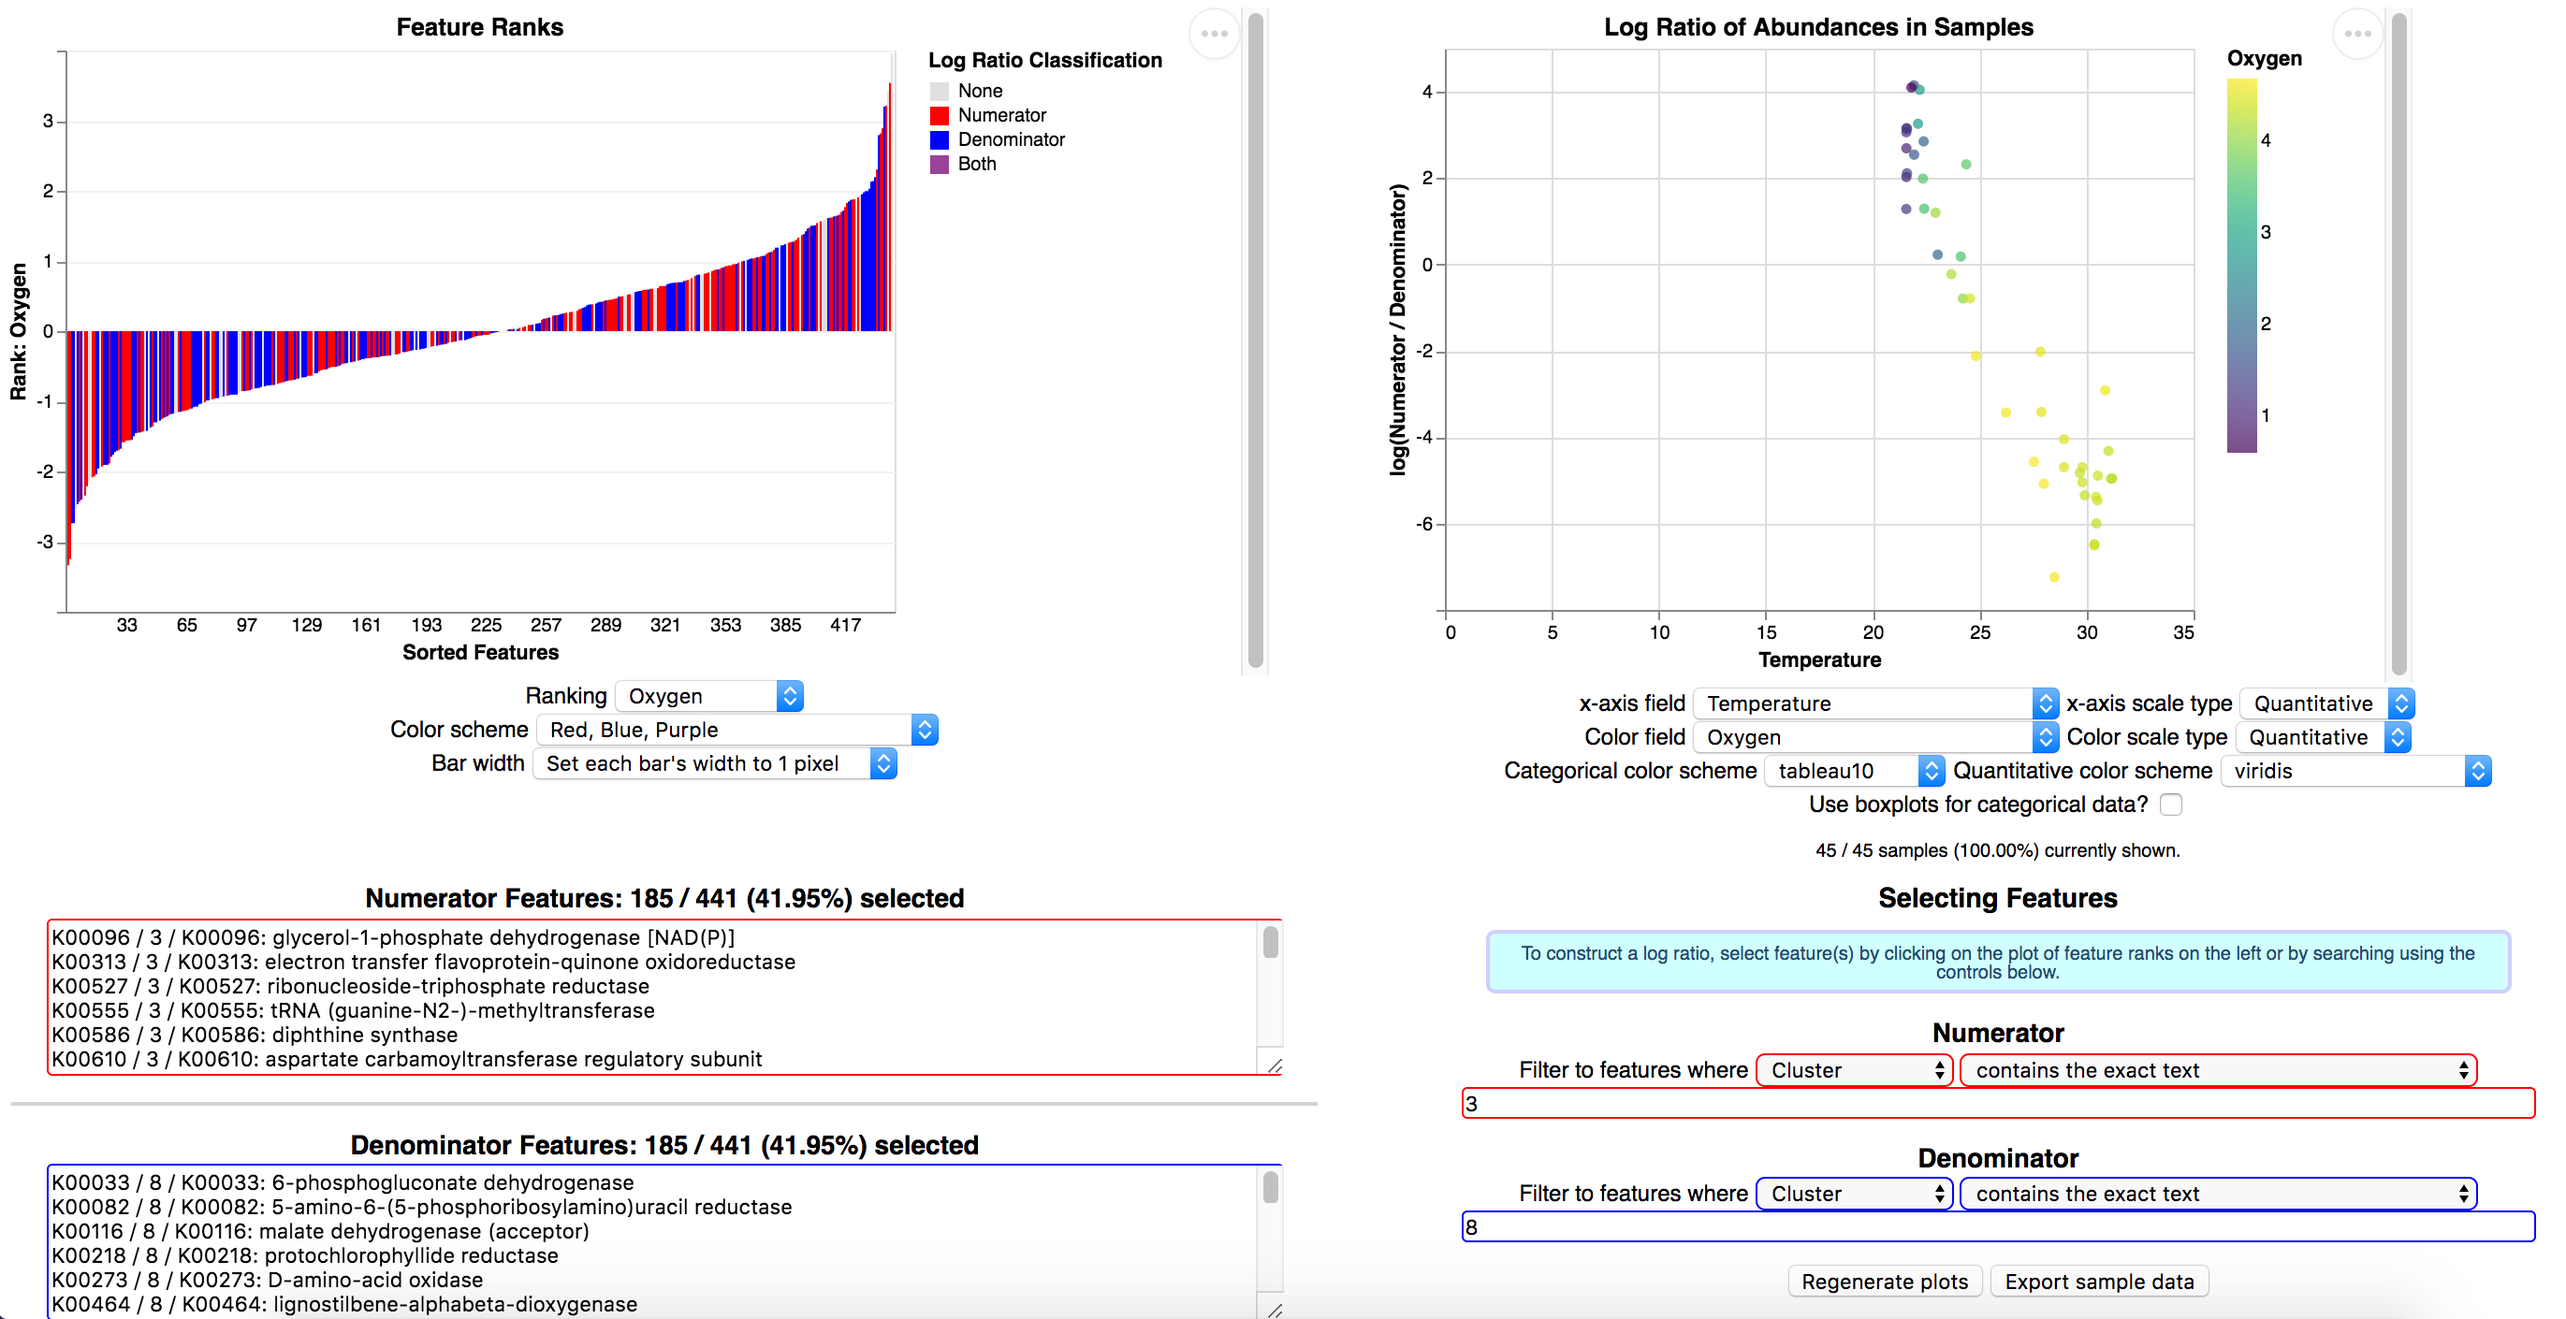
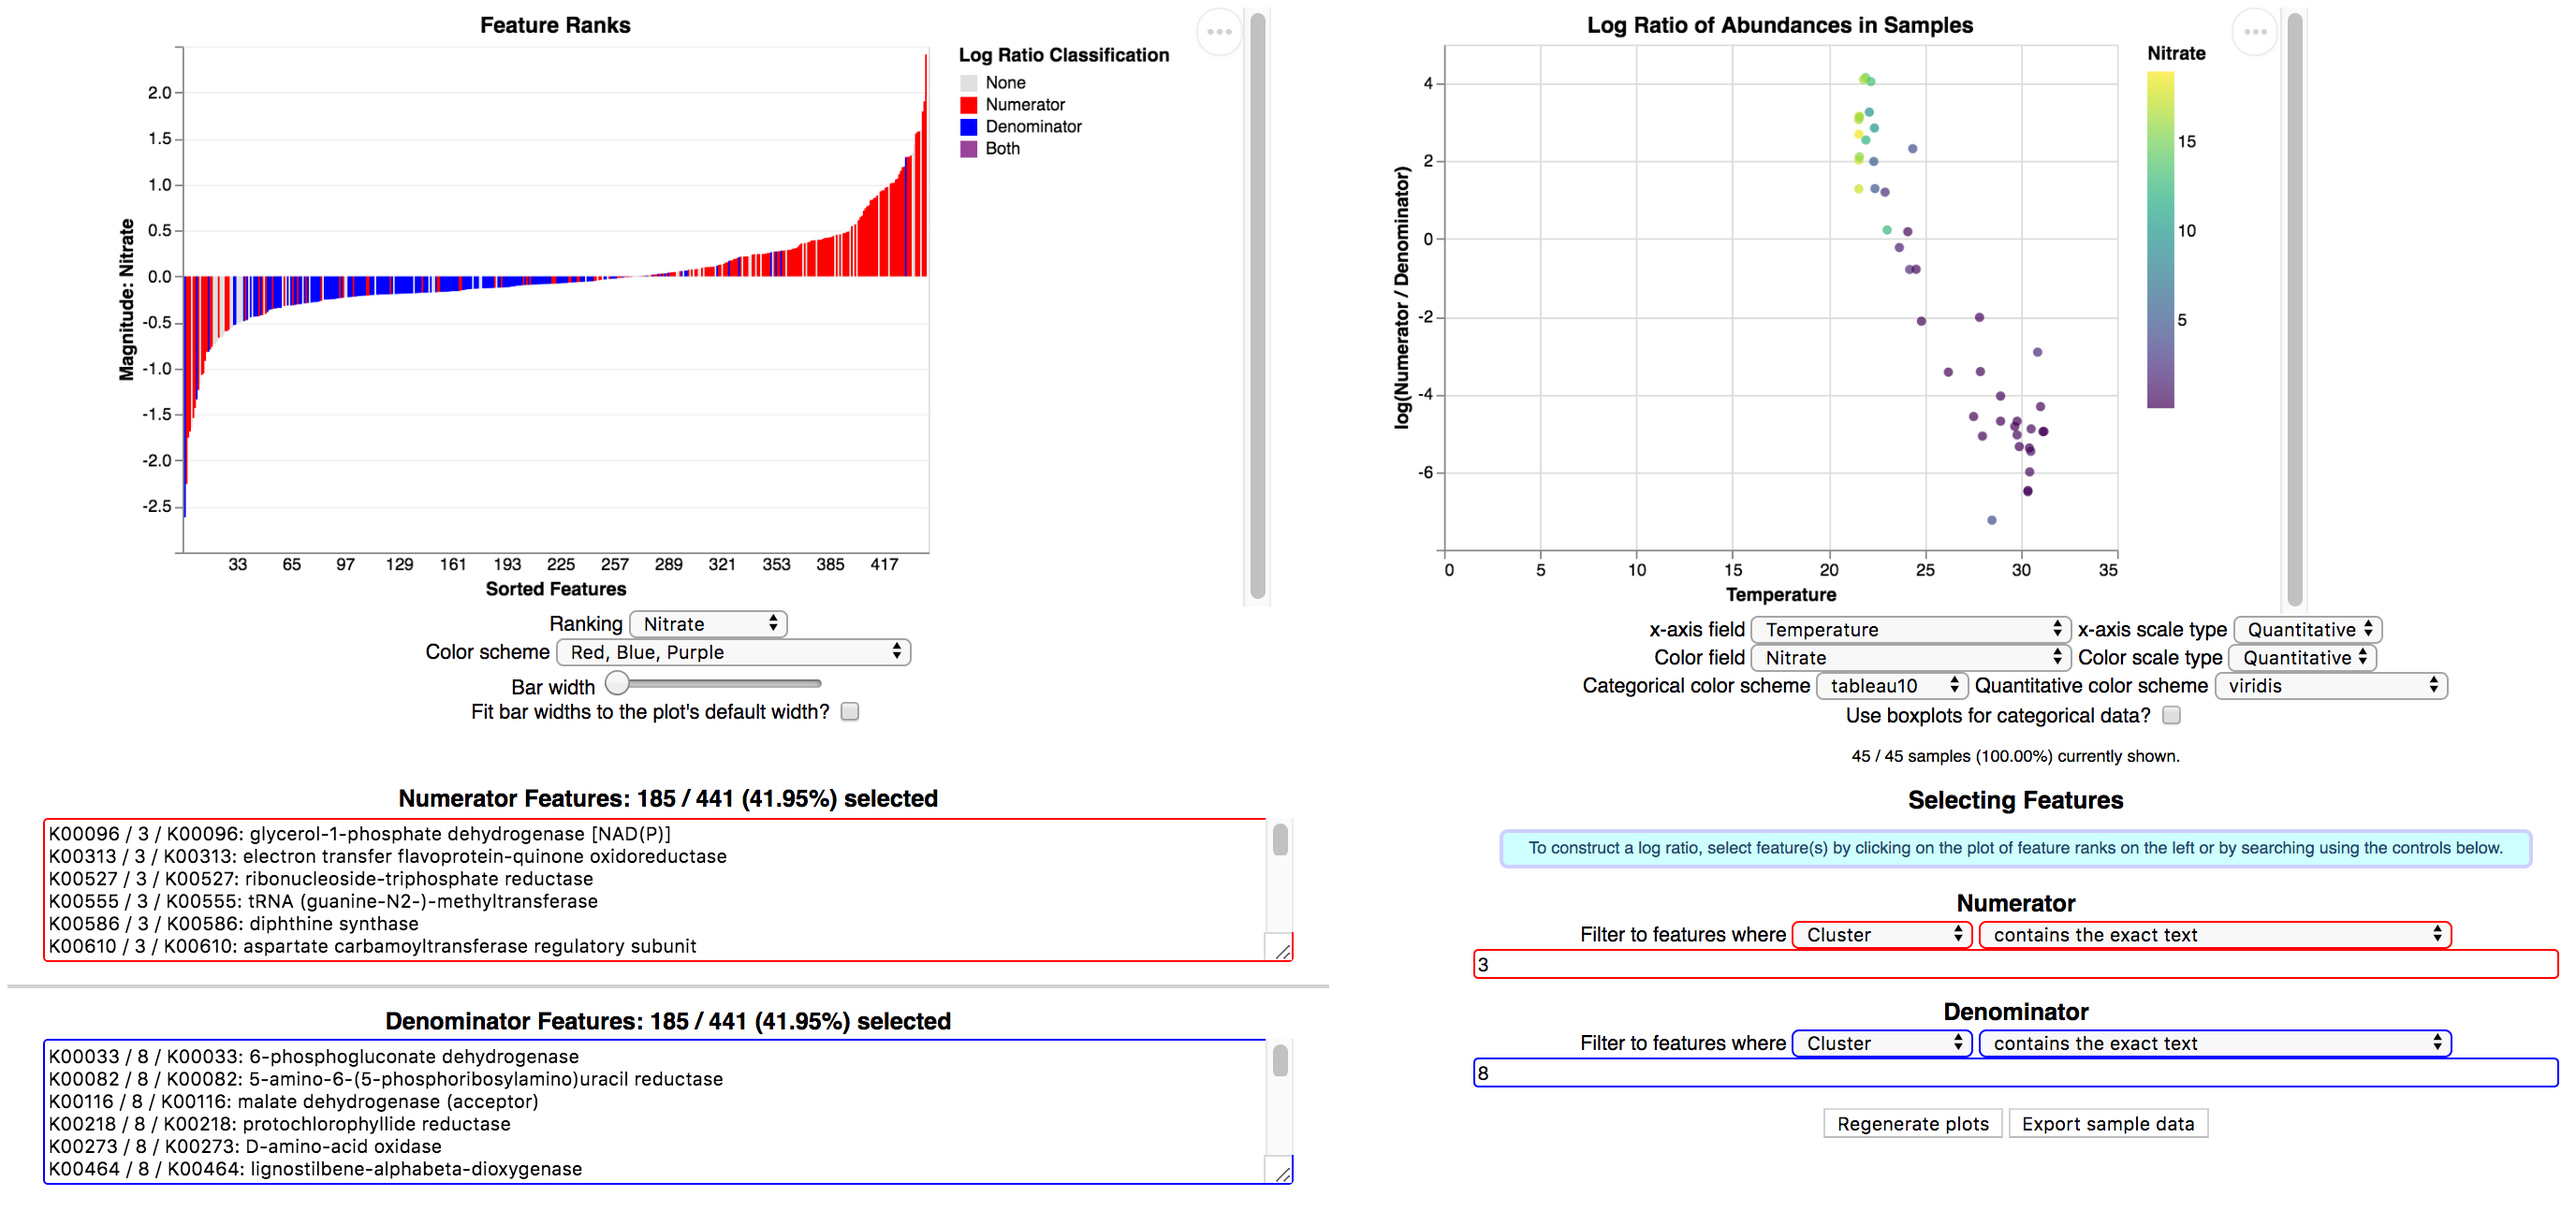
ENH: Rename "Fit bar widths" txt; new screenshot
Mostly maintenance stuff for v0.3.0

diff --git a/docs/demos/byrd/js/display.js b/docs/demos/byrd/js/display.js
@@ -214,7 +214,9 @@ define(["./feature_computation", "./dom_utils", "vega", "vega-embed"], function(
                     this.featureIDs.length <=
                     this.rankPlotJSON.config.view.width
                 ) {
-                    document.getElementById("fitBarSizeCheckbox").checked = true;
+                    document.getElementById(
+                        "fitBarSizeCheckbox"
+                    ).checked = true;
                     this.updateRankPlotBarFitting(false);
                 }
             }

diff --git a/docs/demos/q2_moving_pictures/js/display.js b/docs/demos/q2_moving_pictures/js/display.js
@@ -214,7 +214,9 @@ define(["./feature_computation", "./dom_utils", "vega", "vega-embed"], function(
                     this.featureIDs.length <=
                     this.rankPlotJSON.config.view.width
                 ) {
-                    document.getElementById("fitBarSizeCheckbox").checked = true;
+                    document.getElementById(
+                        "fitBarSizeCheckbox"
+                    ).checked = true;
                     this.updateRankPlotBarFitting(false);
                 }
             }

diff --git a/docs/demos/red_sea/js/display.js b/docs/demos/red_sea/js/display.js
@@ -214,7 +214,9 @@ define(["./feature_computation", "./dom_utils", "vega", "vega-embed"], function(
                     this.featureIDs.length <=
                     this.rankPlotJSON.config.view.width
                 ) {
-                    document.getElementById("fitBarSizeCheckbox").checked = true;
+                    document.getElementById(
+                        "fitBarSizeCheckbox"
+                    ).checked = true;
                     this.updateRankPlotBarFitting(false);
                 }
             }

diff --git a/docs/demos/sleep_apnea/js/display.js b/docs/demos/sleep_apnea/js/display.js
@@ -214,7 +214,9 @@ define(["./feature_computation", "./dom_utils", "vega", "vega-embed"], function(
                     this.featureIDs.length <=
                     this.rankPlotJSON.config.view.width
                 ) {
-                    document.getElementById("fitBarSizeCheckbox").checked = true;
+                    document.getElementById(
+                        "fitBarSizeCheckbox"
+                    ).checked = true;
                     this.updateRankPlotBarFitting(false);
                 }
             }

diff --git a/docs/demos/byrd/index.html b/docs/demos/byrd/index.html
@@ -58,7 +58,7 @@
                 </div>
                 <div class="centeredBlock">
                     <label for="fitBarSizeCheckbox"
-                        >Fit bar widths to available width?</label
+                        >Fit bar widths to the plot's default width?</label
                     >
                     <input type="checkbox" id="fitBarSizeCheckbox" />
                     <p

diff --git a/docs/demos/q2_moving_pictures/index.html b/docs/demos/q2_moving_pictures/index.html
@@ -58,7 +58,7 @@
                 </div>
                 <div class="centeredBlock">
                     <label for="fitBarSizeCheckbox"
-                        >Fit bar widths to available width?</label
+                        >Fit bar widths to the plot's default width?</label
                     >
                     <input type="checkbox" id="fitBarSizeCheckbox" />
                     <p

diff --git a/docs/demos/red_sea/index.html b/docs/demos/red_sea/index.html
@@ -58,7 +58,7 @@
                 </div>
                 <div class="centeredBlock">
                     <label for="fitBarSizeCheckbox"
-                        >Fit bar widths to available width?</label
+                        >Fit bar widths to the plot's default width?</label
                     >
                     <input type="checkbox" id="fitBarSizeCheckbox" />
                     <p

diff --git a/docs/demos/sleep_apnea/index.html b/docs/demos/sleep_apnea/index.html
@@ -58,7 +58,7 @@
                 </div>
                 <div class="centeredBlock">
                     <label for="fitBarSizeCheckbox"
-                        >Fit bar widths to available width?</label
+                        >Fit bar widths to the plot's default width?</label
                     >
                     <input type="checkbox" id="fitBarSizeCheckbox" />
                     <p

diff --git a/qurro/support_files/index.html b/qurro/support_files/index.html
@@ -58,7 +58,7 @@
                 </div>
                 <div class="centeredBlock">
                     <label for="fitBarSizeCheckbox"
-                        >Fit bar widths to available width?</label
+                        >Fit bar widths to the plot's default width?</label
                     >
                     <input type="checkbox" id="fitBarSizeCheckbox" />
                     <p

diff --git a/CHANGELOG.md b/CHANGELOG.md
@@ -33,6 +33,9 @@
     - The range of this slider is 1 pixel per bar to 10 pixels per bar. Note
       that the maximum bar width (when not using the "Fit bar widths" option)
       has been increased from 3 pixels to 10 pixels.
+    - Renamed the `Fit bar widths to display width` option to say `Fit bar
+      widths to the plot's default width?`. This is a more accurate description
+      of what this option does.
 ### Backward-incompatible changes
 ### Bug fixes
 - A clear error is now raised if the feature rankings or feature metadata
@@ -70,6 +73,7 @@
   (https://github.com/knightlab-analyses/reference-frames).
 - Removed some unused images from the `screenshots/` directory of Qurro's
   code repository.
+- Updated the screenshot used in the README.
 - Various other small updates to Qurro's code and documentation.
   ([#184](https://github.com/biocore/qurro/issues/184))
 
